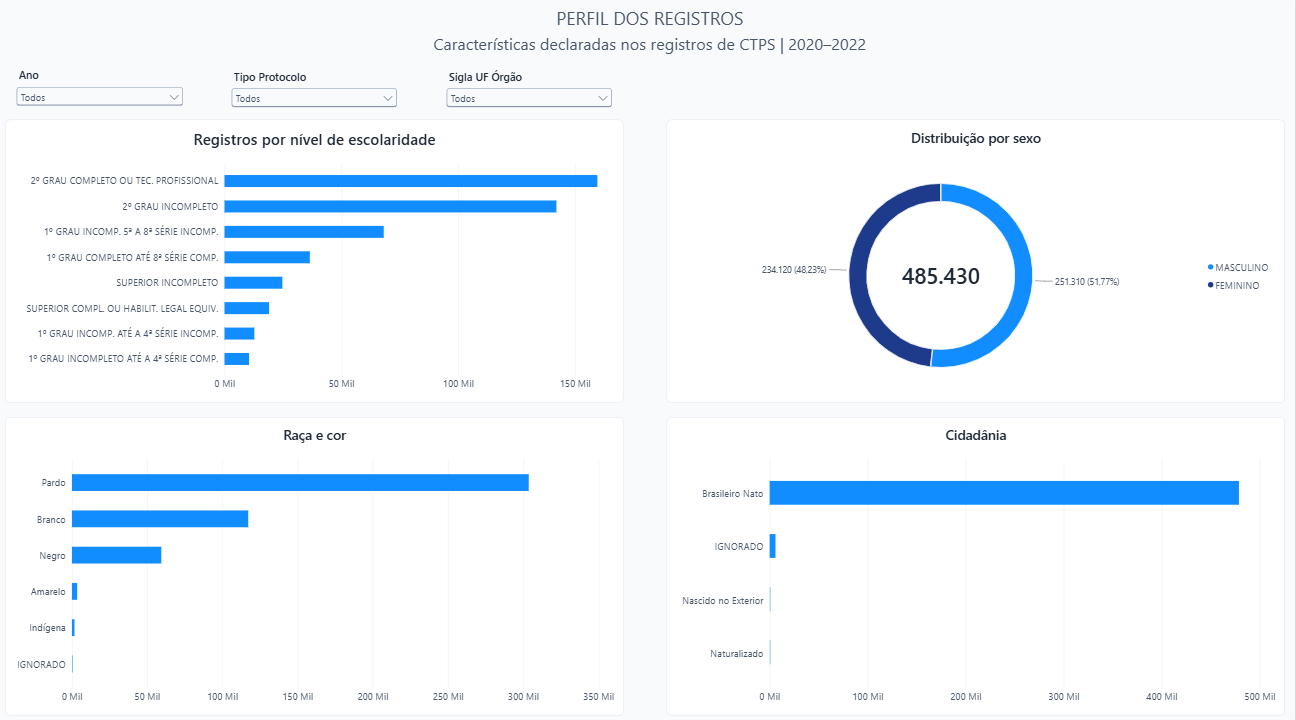
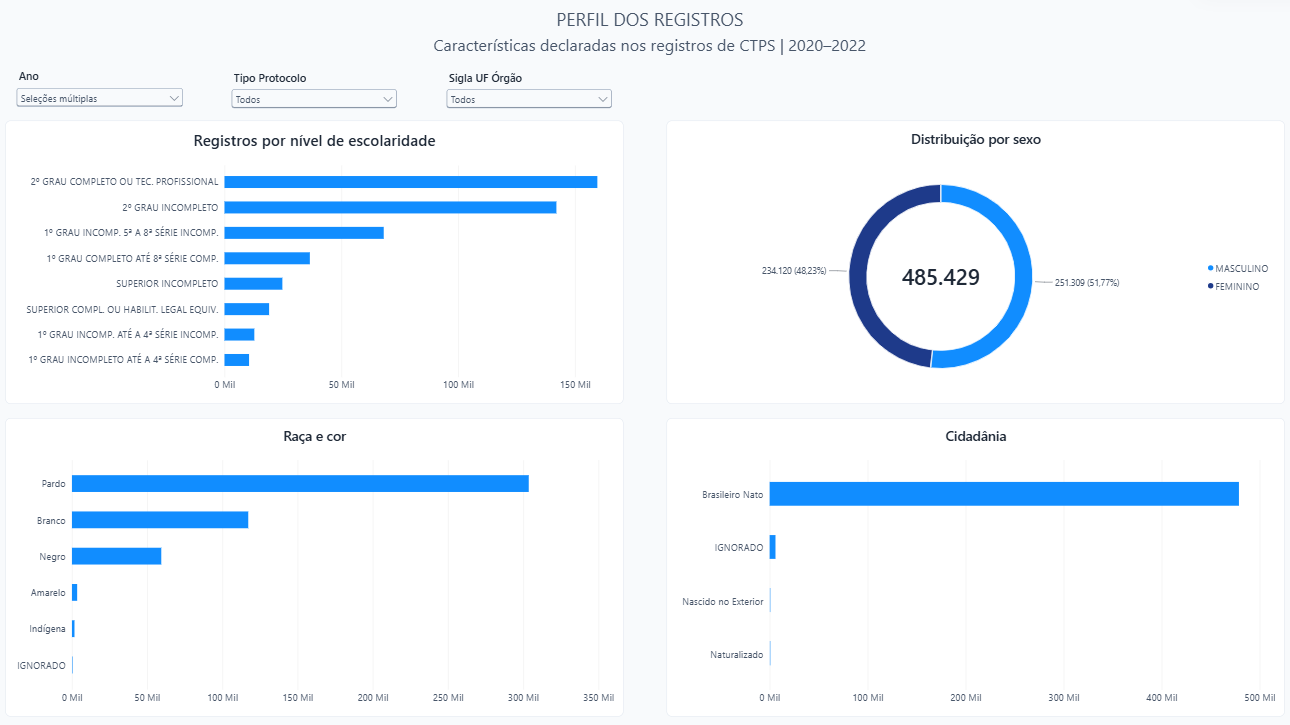
Atualizar filtro do dashboard e concluir reconciliacao documental

diff --git a/src/ctps_pipeline.py b/src/ctps_pipeline.py
@@ -303,7 +303,7 @@ def make_outputs(clean: pd.DataFrame, output_dir: Path) -> None:
     if not unusual.empty:
         lines.append(f"- **UF não padronizada:** **{int(unusual['registros'].sum()):,}** registros na base completa. Valores originais e origem em [ufs_nao_padronizadas.csv](tables/ufs_nao_padronizadas.csv); nenhum código foi substituído.")
     protocol_before = int((clean[date_column_name("Data Protocolo")].dt.to_period("M") < EXPECTED_PERIOD_START).sum())
-    lines.extend(["", "## Possíveis interpretações e limites", "", "- Os resultados mostram como os registros administrativos publicados se distribuem por tempo, UF e protocolo. Não permitem explicar as causas das variações.", "- As mudanças mensais não devem ser interpretadas como evolução do emprego, do mercado de trabalho ou de demanda causal.", f"- `Data Protocolo` tem {protocol_before:,} registros anteriores ao período principal. Essa data histórica é distinta do mês de geração; as ocorrências foram preservadas e reportadas separadamente.", "- A UF é a do órgão emissor, não necessariamente a residência do titular. A categoria IG é mantida sem atribuição de significado.", "- A captura da página Perfil dos Registros do PBIX usa Ano = Todos (485.430). As tabelas deste relatório usam 2020–2022 (485.429). Consulte a [reconciliação do dashboard](../powerbi/dashboard_spec.md)."])
+    lines.extend(["", "## Possíveis interpretações e limites", "", "- Os resultados mostram como os registros administrativos publicados se distribuem por tempo, UF e protocolo. Não permitem explicar as causas das variações.", "- As mudanças mensais não devem ser interpretadas como evolução do emprego, do mercado de trabalho ou de demanda causal.", f"- `Data Protocolo` tem {protocol_before:,} registros anteriores ao período principal. Essa data histórica é distinta do mês de geração; as ocorrências foram preservadas e reportadas separadamente.", "- A UF é a do órgão emissor, não necessariamente a residência do titular. A categoria IG é mantida sem atribuição de significado.", "- As capturas de Visão Geral e Perfil dos Registros usam 2020–2022 (485.429), em concordância com estas tabelas. O controle de qualidade mantém a base completa de 485.430. Consulte a [documentação do dashboard](../powerbi/dashboard_spec.md)."])
     (reports / "insights.md").write_text("\n".join(lines) + "\n", encoding="utf-8")
 
 

diff --git a/powerbi/dashboard_spec.md b/powerbi/dashboard_spec.md
@@ -5,7 +5,7 @@ O [PBIX](dashboard_ctps_2020_2022.pbix) foi construído manualmente no Power BI 
 | Página | Conteúdo | Contexto observado |
 |---|---|---|
 | [Visão Geral](01_visao_geral.png) | Cartões, Top 10 UFs, protocolo e evolução mensal | Ano = 2020, 2021 e 2022; protocolo e UF = Todos |
-| [Perfil dos Registros](02_perfil_registros.png) | Escolaridade, sexo, raça/cor e cidadania | Ano, protocolo e UF = Todos; inclui 2023 |
+| [Perfil dos Registros](02_perfil_registros.png) | Escolaridade, sexo, raça/cor e cidadania | Ano = 2020, 2021 e 2022; protocolo e UF = Todos |
 | [Qualidade e Metodologia](03_qualidade_metodologia.png) | Processados, removidos, datas inválidas, fora do período e limitações | Base completa para controle de qualidade |
 | [Revisão Analítica](04_revisao_analitica.png) | Síntese temporal, regional, protocolo e perfil | Texto descritivo da análise; não deve ser tratado como medida dinâmica |
 
@@ -13,7 +13,7 @@ O [PBIX](dashboard_ctps_2020_2022.pbix) foi construído manualmente no Power BI 
 
 A base processada mantém **485.430** linhas. Uma delas tem `Data CTPS Gerada = 2023-01`, na fonte oficial `dados_ctps_2022.xlsx`. As tabelas analíticas do pipeline e a view SQL usam **485.429** linhas em 2020–2022.
 
-| Indicador | Base completa / Perfil com Ano = Todos | Recorte 2020–2022 |
+| Indicador | Base completa preservada | Recorte analítico do dashboard: 2020–2022 |
 |---|---:|---:|
 | Registros | 485.430 | 485.429 |
 | 1ª via | 351.527 | 351.527 |
@@ -25,9 +25,7 @@ A base processada mantém **485.430** linhas. Uma delas tem `Data CTPS Gerada = 
 | 1º GRAU INCOMP. 5ª A 8ª SÉRIE INCOMP. | 68.133 | 68.132 |
 | AC | 2.135 | 2.134 |
 
-A captura de **Perfil dos Registros** mostra explicitamente 485.430 e 251.310 masculinos, embora seu subtítulo indique 2020–2022. O layout do PBIX confirma que essa página não tem seleção de anos no slicer; Visão Geral tem 2020, 2021 e 2022 selecionados. Os percentuais de sexo continuam arredondando para 51,77% / 48,23% em ambos os universos.
-
-**Pendência de apresentação no Desktop:** selecionar 2020, 2021 e 2022 também em Perfil dos Registros e salvar uma nova captura, caso o autor queira que todas as páginas analíticas abram no mesmo recorte. A integração documenta essa diferença e preserva os arquivos recebidos; não altera filtros do PBIX nem retoca imagens.
+A captura de **Perfil dos Registros** mostra **485.429 registros**, sendo **251.309 masculinos (51,77%)** e **234.120 femininos (48,23%)**, com subtítulo 2020–2022. O layout do PBIX confirma a seleção de 2020, 2021 e 2022 nessa página e em Visão Geral. As duas páginas analíticas estão visualmente e numericamente alinhadas ao recorte das tabelas e do SQL.
 
 Os 485.430 exibidos na página de qualidade são intencionais: ela controla a preservação da base, com **0 removidos**, **0 datas inválidas** e **1 registro fora do período**. Já o recorte analítico exclui esse registro somente das agregações.
 

diff --git a/reports/insights.md b/reports/insights.md
@@ -27,4 +27,4 @@ Os números abaixo foram gerados pelo pipeline. São achados descritivos do conj
 - As mudanças mensais não devem ser interpretadas como evolução do emprego, do mercado de trabalho ou de demanda causal.
 - `Data Protocolo` tem 15,017 registros anteriores ao período principal. Essa data histórica é distinta do mês de geração; as ocorrências foram preservadas e reportadas separadamente.
 - A UF é a do órgão emissor, não necessariamente a residência do titular. A categoria IG é mantida sem atribuição de significado.
-- A captura da página Perfil dos Registros do PBIX usa Ano = Todos (485.430). As tabelas deste relatório usam 2020–2022 (485.429). Consulte a [reconciliação do dashboard](../powerbi/dashboard_spec.md).
+- As capturas de Visão Geral e Perfil dos Registros usam 2020–2022 (485.429), em concordância com estas tabelas. O controle de qualidade mantém a base completa de 485.430. Consulte a [documentação do dashboard](../powerbi/dashboard_spec.md).

diff --git a/reports/qualidade.md b/reports/qualidade.md
@@ -43,7 +43,7 @@ Os órgãos informados são `AA/DF - Gama - Gama` (5), `AA/DF - Ceilândia - Cei
 
 ## Contexto das capturas
 
-Visão Geral mostra 485.429 registros em 2020–2022; Perfil dos Registros foi salvo com Ano = Todos e mostra 485.430. Esta diferença de seleção está [reconciliada por indicador](../powerbi/dashboard_spec.md). Os números analíticos do README usam o recorte, e o total de qualidade usa a base completa.
+Visão Geral e Perfil dos Registros estão salvos com 2020, 2021 e 2022 selecionados e mostram 485.429 registros. A captura de Perfil confirma 251.309 masculinos (51,77%) e 234.120 femininos (48,23%). Os números analíticos do dashboard, README, SQL e tabelas usam o mesmo recorte; o controle de qualidade mantém a base completa de 485.430, incluindo o registro oficial de janeiro de 2023. Veja a [reconciliação por indicador](../powerbi/dashboard_spec.md).
 
 ## Limites
 

diff --git a/README.md b/README.md
@@ -33,7 +33,7 @@ Volume, 1ª e 2ª via, participação de 1ª via, Top 10 UFs, evolução mensal 
 
 Escolaridade, sexo, raça/cor e cidadania.
 
-**Atenção ao contexto da captura:** esta página foi salva com **Ano = Todos**, mostrando **485.430**, inclusive o registro de 2023. Para reproduzir os números analíticos deste README, selecione 2020, 2021 e 2022 no Power BI. O PBIX e a captura foram preservados sem edição.
+A página está salva com **2020, 2021 e 2022 selecionados**, exibindo **485.429 registros**: 251.309 masculinos (51,77%) e 234.120 femininos (48,23%). O PBIX e a captura fornecidos pelo autor foram copiados sem edição e estão alinhados ao recorte analítico deste README.
 
 ![Perfil dos Registros — dashboard CTPS](powerbi/02_perfil_registros.png)
 
